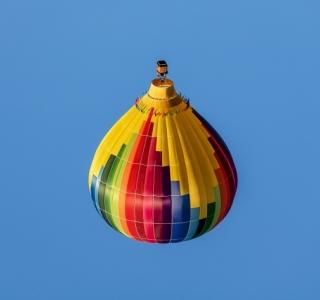
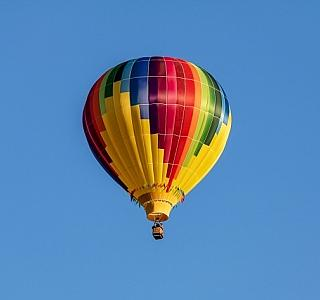
Adicionando novos efeitos

Changed region(s): [[0.25, 0.18, 0.75, 0.84]]

diff --git a/main.py b/main.py
@@ -43,7 +43,7 @@ class MyWindow(QMainWindow):
         self.salvar.triggered.connect(self.salvarComo)
         self.salvar.setShortcut("Ctrl+s")
 
-        # Criando as actions menuTransformações
+# Criando as actions menuTransformações
         self.efeito_find = self.menuTransformacao.addAction("FIND EDGES")
         self.efeito_find.triggered.connect(self.transform_me_findEdges)
         self.menuTransformacao.addSeparator()        
@@ -56,8 +56,23 @@ class MyWindow(QMainWindow):
         self.efeito_blur = self.menuTransformacao.addAction("BLUR")
         self.efeito_blur.triggered.connect(self.transform_me_blur)
         self.menuTransformacao.addSeparator()
+        self.efeito_blur = self.menuTransformacao.addAction("EDGE_ENHANCE")
+        self.efeito_blur.triggered.connect(self.transform_me_edge_enhance)
+        self.menuTransformacao.addSeparator()
         self.efeito_blur = self.menuTransformacao.addAction("EDGE_ENHANCE_MORE")
         self.efeito_blur.triggered.connect(self.transform_me_edge_enhance_more)
+        self.menuTransformacao.addSeparator()
+        self.efeito_blur = self.menuTransformacao.addAction("SHARPEN")
+        self.efeito_blur.triggered.connect(self.transform_me_sharpen)
+        self.menuTransformacao.addSeparator()
+        self.efeito_blur = self.menuTransformacao.addAction("SMOOTH")
+        self.efeito_blur.triggered.connect(self.transform_me_smooth)
+        self.menuTransformacao.addSeparator()
+        self.efeito_blur = self.menuTransformacao.addAction("SMOOTH_MORE")
+        self.efeito_blur.triggered.connect(self.transform_me_smooth_more)
+        self.menuTransformacao.addSeparator()
+        self.efeito_blur = self.menuTransformacao.addAction("DETAIL")
+        self.efeito_blur.triggered.connect(self.transform_me_detail)
         self.menuTransformacao.addSeparator()
         self.efeito_blur = self.menuTransformacao.addAction("FILTRO NEGATIVO")
         self.efeito_blur.triggered.connect(self.transform_me_negativo)
@@ -277,6 +292,66 @@ class MyWindow(QMainWindow):
         self.entrada = self.endereco1
         self.saida = 'imagens/arquivo_novo.jpg'
         self.script = 'scripts\efeito_negativo.py'
+        self.program = 'python '+ self.script + ' \"' + self.entrada + '\" ' + self.saida
+        subprocess.run(self.program, shell=True)
+
+        self.endereco2 = self.saida
+        self.pixmap2 = QtGui.QPixmap(self.endereco2)
+        self.pixmap2 = self.pixmap2.scaled(350, 300, QtCore.Qt.KeepAspectRatio)
+        self.imagem2.setPixmap(self.pixmap2)
+
+    def transform_me_detail(self):
+        self.entrada = self.endereco1
+        self.saida = 'imagens/arquivo_novo.jpg'
+        self.script = 'scripts\efeito_detail.py'
+        self.program = 'python '+ self.script + ' \"' + self.entrada + '\" ' + self.saida
+        subprocess.run(self.program, shell=True)
+
+        self.endereco2 = self.saida
+        self.pixmap2 = QtGui.QPixmap(self.endereco2)
+        self.pixmap2 = self.pixmap2.scaled(350, 300, QtCore.Qt.KeepAspectRatio)
+        self.imagem2.setPixmap(self.pixmap2)
+
+    def transform_me_edge_enhance(self):
+        self.entrada = self.endereco1
+        self.saida = 'imagens/arquivo_novo.jpg'
+        self.script = 'scripts\efeito_edge_enhance.py'
+        self.program = 'python '+ self.script + ' \"' + self.entrada + '\" ' + self.saida
+        subprocess.run(self.program, shell=True)
+
+        self.endereco2 = self.saida
+        self.pixmap2 = QtGui.QPixmap(self.endereco2)
+        self.pixmap2 = self.pixmap2.scaled(350, 300, QtCore.Qt.KeepAspectRatio)
+        self.imagem2.setPixmap(self.pixmap2)
+
+    def transform_me_sharpen(self):
+        self.entrada = self.endereco1
+        self.saida = 'imagens/arquivo_novo.jpg'
+        self.script = 'scripts\efeito_sharpen.py'
+        self.program = 'python '+ self.script + ' \"' + self.entrada + '\" ' + self.saida
+        subprocess.run(self.program, shell=True)
+
+        self.endereco2 = self.saida
+        self.pixmap2 = QtGui.QPixmap(self.endereco2)
+        self.pixmap2 = self.pixmap2.scaled(350, 300, QtCore.Qt.KeepAspectRatio)
+        self.imagem2.setPixmap(self.pixmap2)
+
+    def transform_me_smooth(self):
+        self.entrada = self.endereco1
+        self.saida = 'imagens/arquivo_novo.jpg'
+        self.script = 'scripts\efeito_smooth.py'
+        self.program = 'python '+ self.script + ' \"' + self.entrada + '\" ' + self.saida
+        subprocess.run(self.program, shell=True)
+
+        self.endereco2 = self.saida
+        self.pixmap2 = QtGui.QPixmap(self.endereco2)
+        self.pixmap2 = self.pixmap2.scaled(350, 300, QtCore.Qt.KeepAspectRatio)
+        self.imagem2.setPixmap(self.pixmap2)
+
+    def transform_me_smooth_more(self):
+        self.entrada = self.endereco1
+        self.saida = 'imagens/arquivo_novo.jpg'
+        self.script = 'scripts\efeito_smooth_more.py'
         self.program = 'python '+ self.script + ' \"' + self.entrada + '\" ' + self.saida
         subprocess.run(self.program, shell=True)
 

diff --git a/scripts/efeito_edge_enhance.py b/scripts/efeito_edge_enhance.py
@@ -1,0 +1,16 @@
+import sys
+from PIL import Image, ImageFilter
+
+if __name__ == "__main__":
+    print(f'quanto argumentos: {len(sys.argv)}')
+    for i, arg in enumerate(sys.argv):
+        print(f'Argument: {i}: {arg}')
+        
+#Abrindo a imagem
+img = Image.open(sys.argv[1])
+
+matriz = img.load()
+
+img2 = img.filter(ImageFilter.EDGE_ENHANCE)
+
+img2.save(sys.argv[2])

diff --git a/scripts/efeito_smooth_more.py b/scripts/efeito_smooth_more.py
@@ -1,0 +1,16 @@
+import sys
+from PIL import Image, ImageFilter
+
+if __name__ == "__main__":
+    print(f'quanto argumentos: {len(sys.argv)}')
+    for i, arg in enumerate(sys.argv):
+        print(f'Argument: {i}: {arg}')
+        
+#Abrindo a imagem
+img = Image.open(sys.argv[1])
+
+matriz = img.load()
+
+img2 = img.filter(ImageFilter.SMOOTH_MORE)
+
+img2.save(sys.argv[2])

diff --git a/scripts/efeito_sharpen.py b/scripts/efeito_sharpen.py
@@ -1,0 +1,16 @@
+import sys
+from PIL import Image, ImageFilter
+
+if __name__ == "__main__":
+    print(f'quanto argumentos: {len(sys.argv)}')
+    for i, arg in enumerate(sys.argv):
+        print(f'Argument: {i}: {arg}')
+        
+#Abrindo a imagem
+img = Image.open(sys.argv[1])
+
+matriz = img.load()
+
+img2 = img.filter(ImageFilter.SHARPEN)
+
+img2.save(sys.argv[2])

diff --git a/scripts/efeito_detail.py b/scripts/efeito_detail.py
@@ -1,0 +1,16 @@
+import sys
+from PIL import Image, ImageFilter
+
+if __name__ == "__main__":
+    print(f'quanto argumentos: {len(sys.argv)}')
+    for i, arg in enumerate(sys.argv):
+        print(f'Argument: {i}: {arg}')
+        
+#Abrindo a imagem
+img = Image.open(sys.argv[1])
+
+matriz = img.load()
+
+img2 = img.filter(ImageFilter.DETAIL)
+
+img2.save(sys.argv[2])

diff --git a/scripts/efeito_smooth.py b/scripts/efeito_smooth.py
@@ -1,0 +1,16 @@
+import sys
+from PIL import Image, ImageFilter
+
+if __name__ == "__main__":
+    print(f'quanto argumentos: {len(sys.argv)}')
+    for i, arg in enumerate(sys.argv):
+        print(f'Argument: {i}: {arg}')
+        
+#Abrindo a imagem
+img = Image.open(sys.argv[1])
+
+matriz = img.load()
+
+img2 = img.filter(ImageFilter.SMOOTH)
+
+img2.save(sys.argv[2])
